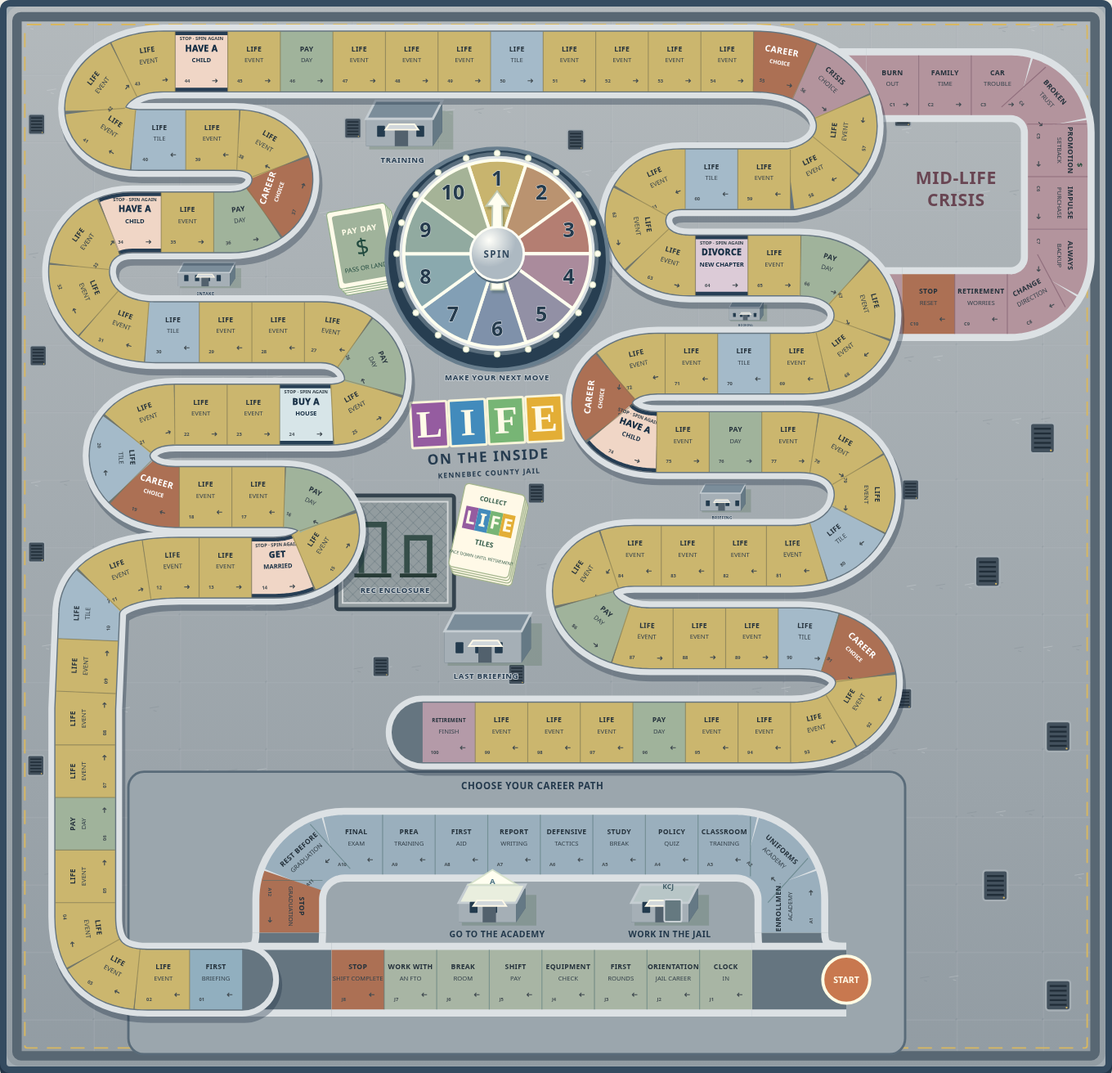
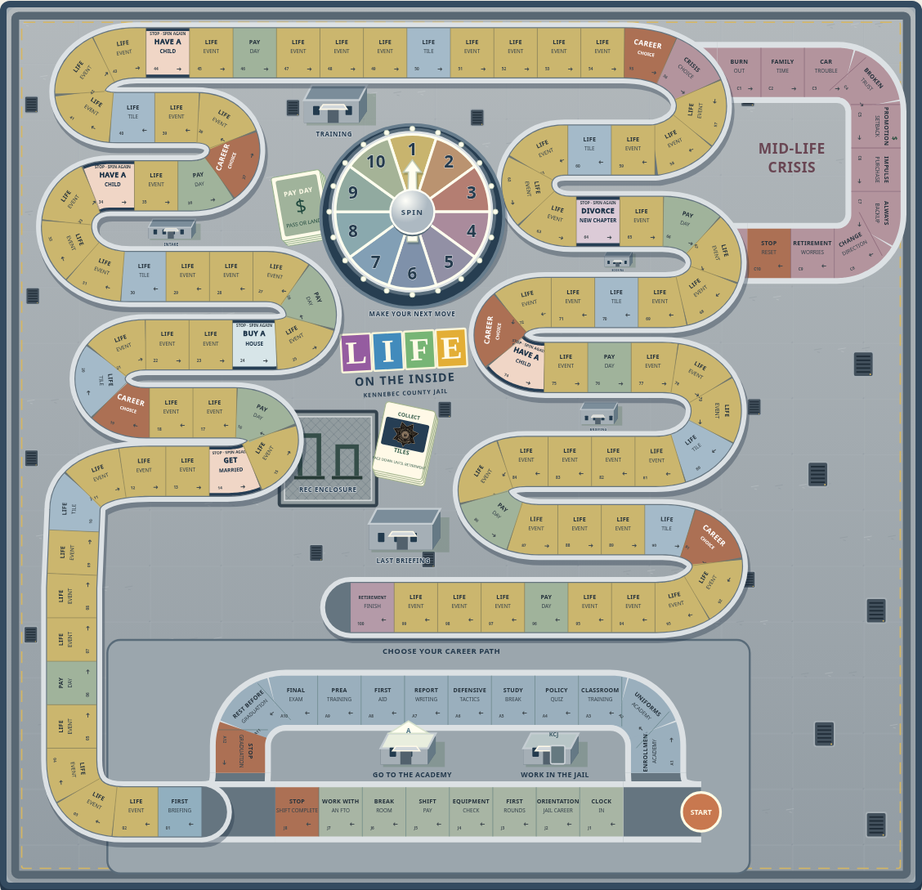
Add hidden house draws, badge card backs, and realistic job and home artwork

diff --git a/public/life/rules.js b/public/life/rules.js
@@ -149,13 +149,14 @@ function awardTiles(g,p,count,random){
  if(received<count)entry(g,'No LIFE tiles are available in the bank or from retired players.');
 }
 function offerJobs(g,graduate,random){g.pending={type:'jobs',graduate,cards:shuffle(ranks.map((_,i)=>i).slice(1),random).slice(0,5),revealed:[]};g.phase='choice';}
+function offerHouseCards(g,random){if(g.pending?.type==='event'&&g.pending.id==='house'&&!g.pending.houseCards){g.pending.houseCards=shuffle(homes.map(h=>h.id),random).slice(0,5);g.pending.revealed=[];}}
 function collectPay(g,p,count){if(count){const pay=salary(p)*count;p.cash+=pay;entry(g,`${p.name} collected $${pay} at ${count===1?'Pay Day':count+' Pay Days'}.`);}}
 export function decision(game){
  if(!game.pending)return null;const p=game.players[game.turn];
  if(game.pending.type==='academy')return {title:'Choose your career path',icon:'★',text:'Go to the Academy for $500, then reveal two job cards and choose one at graduation. Or collect $300 and start your first day by drawing one unknown job card.',options:[option('Go to the Academy',-500),option('Start my first day on the job',300)]};
  if(game.pending.type==='jobs'){
   const {cards,revealed,graduate}=game.pending,limit=graduate?2:1,ready=revealed.length===limit;
-  return {title:ready?'Choose your job':graduate?'Graduation · Reveal two job cards':'Your first job · Draw a card',icon:'▤',jobCards:true,text:ready?(graduate?'Your two jobs are revealed. Choose the one you want to keep.':'Your job is revealed. Accept it to start your first day.'):(graduate?'Pick two of these five face-down cards. After both are revealed, choose one job.':'Pick one of these five face-down cards. The job stays unknown until you pick it.'),options:[...cards.map((rank,i)=>option(revealed.includes(i)?`${ranks[rank]} · $${salaries[rank]} per Pay Day`:`Job card ${i+1}`,0,0,{drawJob:i,faceDown:!revealed.includes(i),disabled:ready||revealed.includes(i)})),...(ready?revealed.map(i=>option(`${graduate?'Choose':'Accept'} ${ranks[cards[i]]} · $${salaries[cards[i]]} per Pay Day`,0,0,{acceptJob:i})):[])]};
+  return {title:ready?'Choose your job':graduate?'Graduation · Reveal two job cards':'Your first job · Draw a card',icon:'▤',jobCards:true,text:ready?(graduate?'Your two jobs are revealed. Choose the one you want to keep.':'Your job is revealed. Accept it to start your first day.'):(graduate?'Pick two of these five face-down cards. After both are revealed, choose one job.':'Pick one of these five face-down cards. The job stays unknown until you pick it.'),options:[...cards.map((rank,i)=>option(revealed.includes(i)?`${ranks[rank]} · $${salaries[rank]} per Pay Day`:`Job card ${i+1}`,0,0,{art:revealed.includes(i)?{sheet:'jobs',index:rank-1}:null,drawJob:i,faceDown:!revealed.includes(i),disabled:ready||revealed.includes(i)})),...(ready?revealed.map(i=>option(`${graduate?'Choose':'Accept'} ${ranks[cards[i]]} · $${salaries[cards[i]]} per Pay Day`,0,0,{acceptJob:i})):[])]};
  }
  if(game.pending.type==='entry'){const space=entryTracks[p.careerPath][p.entryPosition];return {title:(p.careerPath==='academy'?'Academy · ':'Jail career · ')+space.name,icon:space.tiles?'★':'$',text:space.text,options:[option(space.graduate?'Graduate and draw two job cards':p.entryPosition===entryTracks[p.careerPath].length-1?'Join the main career road':'Continue',space.cash||0,space.tiles||0,{promote:!!space.promote})]};}
  if(game.pending.type==='crisis-fork')return {title:'Mid-Life Crisis · Choose your path',icon:'⇄',text:'Stay on the main road, or take ten spaces of difficult choices between cash now, career changes, and LIFE tiles for retirement. The main road continues at Stop 57; the detour rejoins at Stop 67.',options:[option('Stay on the main road'),option('Take the Mid-Life Crisis detour')]};
@@ -165,7 +166,10 @@ export function decision(game){
  if(game.pending.type==='divorce')return p.married?{title:'Divorce',icon:'♥',text:'Your marriage ends. Choose how to handle the legal costs. Your home, children, and LIFE tiles stay with you.',options:[option('Settle amicably',-300,0,{divorce:true}),option('Hire a lawyer',-600,1,{divorce:true})]}:{title:'A new chapter',icon:'♥',text:'You are single, so there is no divorce to resolve. Choose how to spend this next chapter.',options:[option('Enjoy time with friends',-100,1),option('Keep saving')]};
  if(game.pending.type==='event'){
   const event=events.find(e=>e.id===game.pending.id);
-  if(event.id==='house')return {...event,text:p.home?'Sell your current home and choose a new one. The old home’s value is credited toward this purchase.':event.text,options:event.options.map(o=>({...o,cash:o.cash+homeValue(p)}))};
+  if(event.id==='house'){
+   const cards=game.pending.houseCards||homes.slice(0,5).map(h=>h.id),revealed=game.pending.revealed||[],ready=revealed.length===2;
+   return {...event,houseCards:true,title:ready?'Choose your house':'Reveal two house cards',text:(ready?'Choose one of your two revealed homes.':'Pick two of these five face-down house cards. Then choose which home to buy.')+(p.home?' Your current home’s sale value is credited toward the purchase.':''),options:[...cards.map((id,i)=>{const home=revealed.includes(i)?homes.find(h=>h.id===id):null;return option(home?`${home.name} · Buy $${home.price} · Retirement value $${home.value}`:`House card ${i+1}`,0,0,{art:home?{sheet:'houses',index:homes.indexOf(home)}:null,drawHouse:i,faceDown:!home,disabled:ready||revealed.includes(i)});}),...(ready?revealed.map(i=>{const home=homes.find(h=>h.id===cards[i]);return option(`Buy the ${home.name}`,-home.price+homeValue(p),0,{home});}):[])]};
+  }
   if(event.id==='wedding'&&p.married)return {...event,title:'Celebrate your anniversary',text:'You are already married. Celebrate another year together.',options:[option('Celebrate with friends',-250,2),option('Keep it small',-50,1)]};
   return event;
  }
@@ -182,12 +186,13 @@ export function perform(before,action,random=Math.random){
   const start=p.position,target=Math.min(lastSpace,start+g.dice),familyStop=Object.keys(familySpaces).map(Number).find(n=>n>start&&n<=target),end=Math.min(target,familyStop??lastSpace,!p.crisisDone&&start<=crisisFork?crisisFork:lastSpace),fork=!p.crisisDone&&end===crisisFork;g.route=Array.from({length:end-start},(_,i)=>start+i+1);p.position=end;collectPay(g,p,g.route.filter(n=>spaces[n].type==='payday').length);
   const review=g.route.some(n=>spaces[n].type==='promotion');
   if(fork){if(review){g.pending={type:'promotion',thenCrisis:true};g.phase='choice';}else offerCrisis(g,p);return g;}
-  if(familySpaces[end]){g.pending=review?{type:'promotion',thenFamily:true}:{...(familySpaces[end].eventId==='divorce'?{type:'divorce'}:{type:'event',id:familySpaces[end].eventId}),spinAgain:true};g.phase='choice';return g;}
+  if(familySpaces[end]){g.pending=review?{type:'promotion',thenFamily:true}:{...(familySpaces[end].eventId==='divorce'?{type:'divorce'}:{type:'event',id:familySpaces[end].eventId}),spinAgain:true};g.phase='choice';offerHouseCards(g,random);return g;}
   if(end===lastSpace){p.retired=true;g.phase='end';g.pending=null;entry(g,`${p.name} retired. LIFE tile values will be revealed at the final briefing.`);}
   else if(spaces[end].type==='payday'&&!review){g.pending=null;g.phase='end';}
   else{let type=review?'promotion':spaces[end].type;if(type==='fork')type='event';if(type==='event'&&spaces[end].eventId){g.pending=spaces[end].eventId==='divorce'?{type:'divorce'}:{type:'event',id:spaces[end].eventId};}else if(type==='event'){if(g.cursor===g.deck.length){g.deck=shuffle(events.map(e=>e.id),random);g.cursor=0;}g.pending={type,id:g.deck[g.cursor++]};}else g.pending={type};g.phase='choice';}
  }else if(action.type==='choose'){
   if(g.phase!=='choice')throw Error('There is no decision to make.');const event=decision(g),choice=Number.isInteger(action.index)?event.options[action.index]:null;if(!choice||choice.disabled)throw Error('Choose an available option.');
+  if(g.pending.type==='event'&&g.pending.id==='house'&&Number.isInteger(choice.drawHouse)){g.pending.revealed.push(choice.drawHouse);return g;}
   if(g.pending.type==='jobs'){
    if(Number.isInteger(choice.drawJob))g.pending.revealed.push(choice.drawJob);
    else if(Number.isInteger(choice.acceptJob)){p.rank=g.pending.cards[choice.acceptJob];entry(g,`${p.name} chose ${ranks[p.rank]} with a $${salary(p)} Pay Day salary.`);g.pending=null;g.phase='roll';g.dice=null;g.route=[];}
@@ -204,7 +209,7 @@ export function perform(before,action,random=Math.random){
   if(g.phase!=='end')throw Error('Resolve the turn before ending it.');g.turns++;g.route=[];
   if(g.players.every(p=>p.retired)){g.phase='over';entry(g,'Everyone has retired. Reveal all LIFE tiles and add their bonuses, home values, and $100 per child to savings.');}
   else{do{g.turn=(g.turn+1)%g.players.length;}while(g.players[g.turn].retired);g.phase=g.players[g.turn].academyDone?'roll':'choice';g.pending=g.phase==='choice'?{type:'academy'}:null;g.dice=null;}
- }else throw Error('Choose a valid career action.');return g;
+ }else throw Error('Choose a valid career action.');offerHouseCards(g,random);return g;
 }
 export function validateGame(source){
  const invalid=()=>{throw Error('This saved career could not be read.');},integer=(n,min,max)=>Number.isSafeInteger(n)&&n>=min&&n<=max;
@@ -227,6 +232,11 @@ export function validateGame(source){
   if(p.entryPosition!==undefined&&p.entryPosition!==null&&(!integer(p.entryPosition,0,(entryTracks[p.careerPath]?.length||0)-1)||!p.academyDone||p.position!==0||p.retired))invalid();
  }
  if(new Set(held).size!==held.length||held.length!==g.tileCursor||held.some(id=>!g.tileDeck.slice(0,g.tileCursor).includes(id)))invalid();
+ if(g.pending?.type==='event'&&g.pending.id==='house'){
+  const j=g.pending;
+  if(j.houseCards===undefined){g=structuredClone(g);offerHouseCards(g,Math.random);}
+  else if(!Array.isArray(j.houseCards)||j.houseCards.length!==5||new Set(j.houseCards).size!==5||j.houseCards.some(id=>!homes.some(h=>h.id===id))||!Array.isArray(j.revealed)||j.revealed.length>2||new Set(j.revealed).size!==j.revealed.length||j.revealed.some(n=>!integer(n,0,4)))invalid();
+ }
  if(g.pending?.type==='jobs'){
   const j=g.pending,p=g.players[g.turn];
   if(g.phase!=='choice'||typeof j.graduate!=='boolean'||!Array.isArray(j.cards)||j.cards.length!==5||new Set(j.cards).size!==5||j.cards.some(n=>!integer(n,1,ranks.length-1))||!Array.isArray(j.revealed)||new Set(j.revealed).size!==j.revealed.length||j.revealed.length>(j.graduate?2:1)||j.revealed.some(n=>!integer(n,0,4))||!p.academyDone||p.careerPath!==(j.graduate?'academy':'jail')||(j.graduate?inEntry(p):p.entryPosition!==0))invalid();

diff --git a/public/life/app.js b/public/life/app.js
@@ -1,8 +1,8 @@
 import {paycheckEffects} from './payday.js?v=all-money-1';
 import {drivingEffects} from './driving.js?v=driving-1';
-import {carIcon,carDescription} from './cars.js?v=driver-pegs-1';
-import {pawns,colors,ranks,gameKey,loadGame,decision,perform,standings,spaceCount,lastSpace,spinnerStep,entryTracks,inEntry,inCrisis,crisisSpaces,crisisFork,salary,tileCount,tileBonus,homeValue,familyBonus,lifeTiles} from './rules.js?v=driver-pegs-1';
-import {createBoard} from './board.js?v=driver-pegs-1';
+import {carIcon,carDescription} from './cars.js?v=house-cards-1';
+import {pawns,colors,ranks,gameKey,loadGame,decision,perform,standings,spaceCount,lastSpace,spinnerStep,entryTracks,inEntry,inCrisis,crisisSpaces,crisisFork,salary,tileCount,tileBonus,homeValue,familyBonus,lifeTiles} from './rules.js?v=house-cards-1';
+import {createBoard} from './board.js?v=house-cards-1';
 import {OnlineRoom,roomBanner} from '../online.js';
 import {bindEndGame,clearEndedGame} from '../end-game.js';
 const $=id=>document.getElementById(id),el=(tag,cls,text)=>{const n=document.createElement(tag);if(cls)n.className=cls;if(text!==undefined)n.textContent=text;return n;};
@@ -33,7 +33,7 @@ function drive(img,frames,options){
 let spinnerAngle=0;
 function canAct(){return !!game&&!cleared&&!busy&&!moving&&game.phase!=='over'&&(!online||online.canAct);}
 function error(message){$('lifeError').textContent=message;$('decisionError').textContent=message;}
-function tileBack(){const card=el('div','life-tile-back');card.setAttribute('aria-hidden','true');for(const letter of 'LIFE')card.append(el('span','',letter));return card;}
+function tileBack(){const card=el('div','life-tile-back');card.setAttribute('aria-hidden','true');const badge=el('img');badge.src='/board-art/corrections-badge.png';badge.alt='';card.append(badge);return card;}
 function renderTiles(target,p,reveal){
  target.replaceChildren();target.className='life-tile-collection';
  const count=tileCount(p),heading=el('p','tile-rack-label',count+' LIFE tile'+(count===1?'':'s')+(reveal?' · '+money(tileBonus(p)):' · Face down until retirement'));target.append(heading);
@@ -46,8 +46,8 @@ function renderTiles(target,p,reveal){
 function announceTiles(previous){if(!previous)return;const gains=game.players.map((p,i)=>({p,count:tileCount(p)-tileCount(previous.players[i])})).filter(a=>a.count>0);if(!gains.length)return;document.querySelector('.life-tile-award')?.remove();const notice=el('div','life-tile-award');notice.setAttribute('role','status');notice.append(tileBack(),el('span','',gains.map(({p,count})=>p.name+' earned '+count+' LIFE tile'+(count===1?'':'s')+'!').join(' ')));document.body.append(notice);setTimeout(()=>notice.remove(),3200);}
 function renderDecision(){
  const event=decision(game);if(!event)return;
- $('decisionPlayerName').textContent=game.players[game.turn].name;$('decisionPlayer').textContent=(game.pending.type==='academy'?'YOUR FIRST DECISION':game.pending.type==='crisis'?'MID-LIFE CRISIS':'ON THE CLOCK');$('decisionTitle').textContent=event.title;$('decisionIcon').textContent=event.icon;$('decisionText').textContent=event.text;$('decisionOptions').replaceChildren();$('decisionOptions').classList.toggle('job-card-options',!!event.jobCards);
- event.options.forEach((choice,index)=>{const button=el('button','decision-choice',choice.label);button.type='button';if(event.jobCards){button.classList.add(Number.isInteger(choice.acceptJob)?'job-accept':choice.faceDown?'job-card-back':'job-card-face');}button.disabled=!!choice.disabled||!canAct();const changes=[];if(choice.cash)changes.push((choice.cash>0?'+':'−')+money(Math.abs(choice.cash)));if(choice.tiles)changes.push('+'+choice.tiles+' LIFE tile'+(choice.tiles===1?'':'s'));if(choice.promote)changes.push('Higher salary');if(choice.home)changes.push('Retirement home value '+money(choice.home.value));if(choice.children)changes.push('+1 child');button.append(el('span','',changes.join(' · ')+(event.jobCards&&Number.isInteger(choice.drawJob)?(choice.faceDown?(choice.disabled?' · Not selected':''):' · Revealed'):'')));button.onclick=()=>act({type:'choose',index});$('decisionOptions').append(button);});
+ $('decisionPlayerName').textContent=game.players[game.turn].name;$('decisionPlayer').textContent=(game.pending.type==='academy'?'YOUR FIRST DECISION':game.pending.type==='crisis'?'MID-LIFE CRISIS':'ON THE CLOCK');$('decisionTitle').textContent=event.title;$('decisionIcon').textContent=event.icon;$('decisionText').textContent=event.text;$('decisionOptions').replaceChildren();$('decisionOptions').classList.toggle('job-card-options',!!(event.jobCards||event.houseCards));
+ event.options.forEach((choice,index)=>{const button=el('button','decision-choice',choice.label);button.type='button';if(choice.art){const art=el('span','card-illustration');art.setAttribute('role','img');art.setAttribute('aria-label',choice.label+' illustration');art.style.backgroundImage="url('/life/card-art/"+choice.art.sheet+".webp')";art.style.backgroundPosition=(choice.art.index%5*25)+'% '+(Math.floor(choice.art.index/5)*100)+'%';button.prepend(art);}if(event.jobCards||event.houseCards){button.classList.add((Number.isInteger(choice.acceptJob)||choice.home)?'job-accept':choice.faceDown?'job-card-back':'job-card-face');}button.disabled=!!choice.disabled||!canAct();const changes=[];if(choice.cash)changes.push((choice.cash>0?'+':'−')+money(Math.abs(choice.cash)));if(choice.tiles)changes.push('+'+choice.tiles+' LIFE tile'+(choice.tiles===1?'':'s'));if(choice.promote)changes.push('Higher salary');if(choice.home)changes.push('Retirement home value '+money(choice.home.value));if(choice.children)changes.push('+1 child');button.append(el('span','',changes.join(' · ')+((event.jobCards||event.houseCards)&&(Number.isInteger(choice.drawJob)||Number.isInteger(choice.drawHouse))?(choice.faceDown?(choice.disabled?' · Not selected':''):' · Revealed'):'')));button.onclick=()=>act({type:'choose',index});$('decisionOptions').append(button);});
 }
 function controls(){if(!game)return;const p=game.players[game.turn],mine=!online||online.viewer===game.turn,active=canAct();
  $('turnEyebrow').textContent=game.phase==='over'?'OFF THE CLOCK':mine?'ON THE CLOCK':'WAITING FOR THE CREW';$('turnName').textContent=game.phase==='over'?'Everyone’s retired.':p.name;$('turnRank').textContent=game.phase==='over'?'The final briefing':ranks[p.rank]+' · '+locationLabel(p);

diff --git a/public/life-preview.html b/public/life-preview.html
@@ -1,3 +1,3 @@
-<!doctype html><html lang="en"><head><meta charset="utf-8"><meta name="viewport" content="width=device-width,initial-scale=1"><meta name="description" content="See the winding board mockup for Life on the Inside, the Kennebec County Jail career game."><title>Life on the Inside · Board mockup</title><link rel="stylesheet" href="/life/style.css?v=driver-pegs-1"><link rel="stylesheet" href="/life/board.css?v=driver-pegs-1"><script type="module" src="/life/preview.js?v=driver-pegs-1"></script></head><body>
+<!doctype html><html lang="en"><head><meta charset="utf-8"><meta name="viewport" content="width=device-width,initial-scale=1"><meta name="description" content="See the winding board mockup for Life on the Inside, the Kennebec County Jail career game."><title>Life on the Inside · Board mockup</title><link rel="stylesheet" href="/life/style.css?v=house-cards-1"><link rel="stylesheet" href="/life/board.css?v=house-cards-1"><script type="module" src="/life/preview.js?v=house-cards-1"></script></head><body>
 <header class="life-header"><a class="life-brand" href="/"><span class="brand-stamp" aria-hidden="true">L</span><span>Life on the Inside<small>THE COUNTY CAREER</small></span></a><nav aria-label="Game navigation"><a href="/">All games</a><a href="/life-setup">Play the game</a></nav></header>
-<main class="board-preview-main"><span class="preview-tag">BOARD MOCKUP</span><h1>Choose your path.<br>Build your career.</h1><p class="lead">Play through 12 Academy spaces or 8 jail-career spaces, then follow the winding main road with 100 spaces and a ten-number spinner. Just after halfway, a ten-space Mid-Life Crisis branch brings difficult choices before rejoining the main road. Collect paychecks, make life decisions, and gather face-down LIFE tiles worth cash at retirement.</p><div class="preview-board-wrap"><div class="board-heading"><span>LIFE ON THE INSIDE</span><span>KENNEBEC COUNTY JAIL</span></div><div id="careerBoard" class="career-board" aria-label="Board mockup"><div id="careerTiles" class="career-tiles"></div></div><div class="board-key"><span><b>Yellow</b> County event</span><span><b>Coral</b> Career choice</span><span><b>Green</b> Pay Day</span><span><b>Blue</b> LIFE tile</span><span><b>Rose</b> Mid-Life Crisis</span><span><b>Navy border</b> Family stops · resolve and spin again</span></div></div><div class="preview-actions"><a class="primary" href="/life-setup">Gather your crew →</a><a class="life-preview-link" href="/life/board-mockup.png?v=driver-pegs-1">Open full-size mockup ↗</a><span id="previewSpinResult" role="status" aria-live="polite">Try the spinner in the middle of the board.</span></div></main><footer>Life on the Inside · The County Career</footer></body></html>
+<main class="board-preview-main"><span class="preview-tag">BOARD MOCKUP</span><h1>Choose your path.<br>Build your career.</h1><p class="lead">Play through 12 Academy spaces or 8 jail-career spaces, then follow the winding main road with 100 spaces and a ten-number spinner. Just after halfway, a ten-space Mid-Life Crisis branch brings difficult choices before rejoining the main road. Collect paychecks, make life decisions, and gather face-down LIFE tiles worth cash at retirement.</p><div class="preview-board-wrap"><div class="board-heading"><span>LIFE ON THE INSIDE</span><span>KENNEBEC COUNTY JAIL</span></div><div id="careerBoard" class="career-board" aria-label="Board mockup"><div id="careerTiles" class="career-tiles"></div></div><div class="board-key"><span><b>Yellow</b> County event</span><span><b>Coral</b> Career choice</span><span><b>Green</b> Pay Day</span><span><b>Blue</b> LIFE tile</span><span><b>Rose</b> Mid-Life Crisis</span><span><b>Navy border</b> Family stops · resolve and spin again</span></div></div><div class="preview-actions"><a class="primary" href="/life-setup">Gather your crew →</a><a class="life-preview-link" href="/life/board-mockup.png?v=house-cards-1">Open full-size mockup ↗</a><span id="previewSpinResult" role="status" aria-live="polite">Try the spinner in the middle of the board.</span></div></main><footer>Life on the Inside · The County Career</footer></body></html>

diff --git a/public/life.html b/public/life.html
@@ -1,4 +1,4 @@
-<!doctype html><html lang="en"><head><meta charset="utf-8"><meta name="viewport" content="width=device-width,initial-scale=1"><title>Life on the Inside · The County Career</title><link rel="stylesheet" href="/life/style.css?v=all-money-1"><link rel="stylesheet" href="/life/board.css?v=driver-pegs-1"><link rel="stylesheet" href="/online.css"><script type="module" src="/life/app.js?v=all-money-1"></script></head><body>
+<!doctype html><html lang="en"><head><meta charset="utf-8"><meta name="viewport" content="width=device-width,initial-scale=1"><title>Life on the Inside · The County Career</title><link rel="stylesheet" href="/life/style.css?v=house-cards-1"><link rel="stylesheet" href="/life/board.css?v=house-cards-1"><link rel="stylesheet" href="/online.css"><script type="module" src="/life/app.js?v=house-cards-1"></script></head><body>
 <header class="life-header"><a class="life-brand" href="/"><span class="brand-stamp" aria-hidden="true">L</span><span>Life on the Inside<small>THE COUNTY CAREER</small></span></a><nav><button id="showRules" class="text-button" type="button">How to play</button><a href="/">All games</a></nav></header>
 <main id="lifeMain"><section class="game-intro"><div><p class="eyebrow">KENNEBEC COUNTY JAIL</p><h1>A career worth<br>talking about.</h1></div><p>Work the shift. Look after your crew.<br>Make it to retirement your way.</p></section>
 <div class="career-layout"><section class="board-panel" aria-label="Career board"><div class="board-heading"><span>THE COUNTY CAREER</span><a href="/life-preview">View board mockup</a></div><div id="careerBoard" class="career-board" aria-label="Career path from first briefing to retirement"><div id="careerTiles" class="career-tiles"></div><div id="careerTokens" class="career-tokens"></div></div><div class="board-key"><span><b>Yellow</b> County event</span><span><b>Coral</b> Career choice</span><span><b>Green</b> Pay Day</span><span><b>Blue</b> LIFE tile</span><span><b>Rose</b> Mid-Life Crisis</span><span><b>Navy border</b> Family stops · resolve and spin again</span></div><p class="board-note">Collect salary when passing or landing on green Pay Days. Land on blue spaces to collect face-down LIFE tiles. At Stop 56, choose the main road or Mid-Life Crisis; the detour rejoins at Stop 67.</p></section>

diff --git a/public/life/board.js b/public/life/board.js
@@ -1,4 +1,4 @@
-import {spaces,entryTracks,crisisSpaces,crisisFork,crisisRejoin,spinnerMax,spinnerStep} from './rules.js?v=driver-pegs-1';
+import {spaces,entryTracks,crisisSpaces,crisisFork,crisisRejoin,spinnerMax,spinnerStep} from './rules.js?v=house-cards-1';
 
 // All board art is original SVG. The road geometry also drives pawn movement.
 export const boardWidth=1400,boardHeight=1350;
@@ -52,7 +52,7 @@ function scenery(root){
  // Printed card stacks sit in the open spaces between roads.
  const deck=add(root,'g',{transform:'translate(585 607) rotate(12)',class:'board-life-tile-bank'});for(let i=3;i>=0;i--)add(deck,'rect',{x:i*2,y:i*3,width:78,height:108,rx:5,fill:'#fff9e7',stroke:'#a5b68f','stroke-width':1.4});
  add(deck,'text',{x:39,y:18,'text-anchor':'middle','font-size':8,'font-weight':800,fill:'#365e4c'},'COLLECT');
- ['L','I','F','E'].forEach((letter,i)=>{add(deck,'rect',{x:7+i*16,y:28,width:16,height:29,fill:['#955ca0','#428bbc','#77b575','#e3ae36'][i]});add(deck,'text',{x:15+i*16,y:50,'text-anchor':'middle','font-size':23,'font-weight':850,fill:'#fffbe8'},letter);});
+ add(deck,'rect',{x:5,y:23,width:68,height:43,rx:3,fill:'#263e54'});add(deck,'image',{href:'/board-art/corrections-badge.png',x:18,y:25,width:42,height:39});
  add(deck,'text',{x:39,y:74,'text-anchor':'middle','font-size':9,'font-weight':850,fill:'#365e4c'},'TILES');add(deck,'text',{x:39,y:91,'text-anchor':'middle','font-size':5.5,fill:'#365e4c'},'FACE DOWN UNTIL RETIREMENT');
  const pay=add(root,'g',{transform:'translate(407 263) rotate(-10)'});for(let i=3;i>=0;i--)add(pay,'rect',{x:i*2,y:i*3,width:76,height:99,rx:4,fill:'#fffbe9',stroke:'#94b18b','stroke-width':1.3});add(pay,'rect',{x:6,y:6,width:64,height:87,fill:'#a0b39b',rx:3});add(pay,'text',{x:38,y:32,'text-anchor':'middle',class:'deck-title'},'PAY DAY');add(pay,'text',{x:38,y:61,'text-anchor':'middle','font-size':29,fill:'#214a3f'},'$');add(pay,'text',{x:38,y:80,'text-anchor':'middle','font-size':8,fill:'#214a3f'},'PASS OR LAND');
  // Colorful original title printed on the landscape.

diff --git a/public/life-setup.html b/public/life-setup.html
@@ -1,4 +1,4 @@
-<!doctype html><html lang="en"><head><meta charset="utf-8"><meta name="viewport" content="width=device-width,initial-scale=1"><meta name="description" content="Gather your crew for Life on the Inside, an original county-jail career board game."><title>Life on the Inside · Gather your crew</title><link rel="stylesheet" href="/life/style.css?v=driver-pegs-1"><link rel="stylesheet" href="/life/board.css?v=driver-pegs-1"><link rel="stylesheet" href="/online.css"><script type="module" src="/life/setup.js?v=driver-pegs-1"></script></head><body>
+<!doctype html><html lang="en"><head><meta charset="utf-8"><meta name="viewport" content="width=device-width,initial-scale=1"><meta name="description" content="Gather your crew for Life on the Inside, an original county-jail career board game."><title>Life on the Inside · Gather your crew</title><link rel="stylesheet" href="/life/style.css?v=house-cards-1"><link rel="stylesheet" href="/life/board.css?v=house-cards-1"><link rel="stylesheet" href="/online.css"><script type="module" src="/life/setup.js?v=house-cards-1"></script></head><body>
 <header class="life-header"><a class="life-brand" href="/"><span class="brand-stamp" aria-hidden="true">L</span><span>Life on the Inside<small>THE COUNTY CAREER</small></span></a><nav><a href="/">All games</a></nav></header>
 <main class="life-setup"><p class="eyebrow">KENNEBEC COUNTY JAIL · AN ORIGINAL BOARD GAME</p><h1>First shift.<br>Whole career ahead.</h1><p class="lead">Choose a career, collect paychecks, build a family, and gather LIFE tiles for retirement.</p><div class="setup-facts"><span>2–6 players</span><span>100 career spaces</span><span>One device or room code</span></div>
 <a class="life-preview-link" href="/life-preview">View the board mockup →</a><br><a id="resumeCareer" class="resume-career" href="/life" hidden>Continue your saved career →</a>

diff --git a/src/rooms.js b/src/rooms.js
@@ -17,7 +17,7 @@ export function project(room,member){
   if(state.phase!=='over')delete state.solution;
   state.players.forEach((p,i)=>{if(i!==playerIndex){p.hand=[];p.notes={};}});
   if(state.pending&&!(state.phase==='view'&&state.turn===playerIndex))state.pending.card=null;
- }else if(state){delete state.cards;if(room.kind==='life'){delete state.deck;if(state.pending?.type==='jobs')state.pending.cards=state.pending.cards.map((rank,i)=>state.pending.revealed.includes(i)?rank:null);state.lifeTilesRemaining=state.tileDeck.length-state.tileCursor;delete state.tileDeck;delete state.tileCursor;state.players.forEach(p=>{p.lifeTileCount=p.lifeTiles.length;if(state.phase!=='over')delete p.lifeTiles;});}}
+ }else if(state){delete state.cards;if(room.kind==='life'){delete state.deck;if(state.pending?.type==='jobs')state.pending.cards=state.pending.cards.map((rank,i)=>state.pending.revealed.includes(i)?rank:null);if(state.pending?.houseCards)state.pending.houseCards=state.pending.houseCards.map((id,i)=>state.pending.revealed.includes(i)?id:null);state.lifeTilesRemaining=state.tileDeck.length-state.tileCursor;delete state.tileDeck;delete state.tileCursor;state.players.forEach(p=>{p.lifeTileCount=p.lifeTiles.length;if(state.phase!=='over')delete p.lifeTiles;});}}
  const motion=room.motion?{id:room.motion.id,actor:room.motion.actor,route:room.motion.next.route,dice:room.motion.dice,acknowledged:room.motion.acknowledged}:null;
  return {code:room.code,kind:room.kind,status:state?'playing':'lobby',revision:room.revision,round:room.round||0,viewer:playerIndex,host:room.host===member.id,members:room.members.map(p=>({id:p.id,name:p.name,choice:p.choice,...(room.kind==='life'?{pegGender:p.pegGender||'male'}:{}),host:p.id===room.host})),config:room.config,state,motion,trade:room.trade||null,event:room.event||null};
 }

diff --git a/public/life/style.css b/public/life/style.css
@@ -17,3 +17,8 @@
 .payday-notice{position:fixed;z-index:1000;pointer-events:none;padding:10px 16px;border:2px solid #d4bd73;border-radius:12px;background:#244d3d;color:#fff4c9;font-size:18px;font-weight:850;box-shadow:0 5px 20px #152f3d44;white-space:nowrap;transform:translateX(-50%)}.payday-cash{position:fixed;z-index:999;pointer-events:none;width:42px;height:23px;border:2px solid #496e43;border-radius:3px;background:#cce2ad;color:#315632;box-shadow:0 2px 5px #0003;text-align:center;font:bold 18px Georgia,serif}
 
 .payday-notice.money-out{background:#794438;border-color:#e6b394;color:#fff1df}.payday-cash.money-out{border-color:#8d5a45;background:#ead2af;color:#794438}
+
+.job-card-back::before{content:'';width:84px;height:84px;background:url('/board-art/corrections-badge.png') center/contain no-repeat;flex-shrink:0;margin:0 0 10px}.life-tile-back{background:#263e54;border-color:#d7c08e}.life-tile-back img{display:block;width:100%;height:100%;object-fit:contain}
+
+.job-card-options .decision-choice .card-illustration{display:block;flex:none;width:100%;aspect-ratio:1;min-height:90px;margin:0 0 10px;background-size:500% 200%;background-repeat:no-repeat;border-radius:5px}.job-card-options .decision-choice .card-illustration:empty{display:block}.job-card-options .job-card-face{justify-content:flex-start;padding:10px;font-size:13px}
+.job-card-options:has(.job-accept) .job-card-back{display:none}.job-card-back:disabled{opacity:1}

diff --git a/public/life/setup.js b/public/life/setup.js
@@ -1,6 +1,6 @@
-import {carIcon} from './cars.js?v=driver-pegs-1';
-import {pawns,createGame,loadGame,gameKey,validateRoster} from './rules.js?v=driver-pegs-1';
-import {onlineSetup} from '../online-setup.js?v=driver-pegs-1';
+import {carIcon} from './cars.js?v=house-cards-1';
+import {pawns,createGame,loadGame,gameKey,validateRoster} from './rules.js?v=house-cards-1';
+import {onlineSetup} from '../online-setup.js?v=house-cards-1';
 const form=document.getElementById('lifeSetupForm'),rows=document.getElementById('lifePlayerRows'),status=document.getElementById('setupStatus');
 const el=(tag,text)=>{const e=document.createElement(tag);if(text)e.textContent=text;return e;};
 let players=[{name:'',pawn:'badge',pegGender:'male'},{name:'',pawn:'keys',pegGender:'male'}];

diff --git a/public/life/preview.js b/public/life/preview.js
@@ -1,5 +1,5 @@
-import {createBoard} from './board.js?v=driver-pegs-1';
-import {spinnerMax,spinnerStep} from './rules.js?v=driver-pegs-1';
+import {createBoard} from './board.js?v=house-cards-1';
+import {spinnerMax,spinnerStep} from './rules.js?v=house-cards-1';
 const board=createBoard(document.getElementById('careerTiles'));
 let angle=0;
 for(const {button,path} of board.pathButtons)button.onclick=()=>{board.setPath(path);document.getElementById('previewSpinResult').textContent=path==='academy'?'Academy route: spin through 12 spaces, stop at graduation, then join the main road.':'Jail route: spin through 8 work spaces, finish the first shift, then join the main road.';};

diff --git a/public/life/card-art/README.md b/public/life/card-art/README.md
@@ -1,0 +1,1 @@
+Job and house images are original AI-generated photorealistic illustrations for the game, created October 2026. They do not depict actual Kennebec County Jail staff or identified real homes. Each sprite sheet has five columns and two rows. Jobs follow ranks 1–10; homes follow the homes array. The badge back reuses the user-provided corrections badge from the Monoply board.
